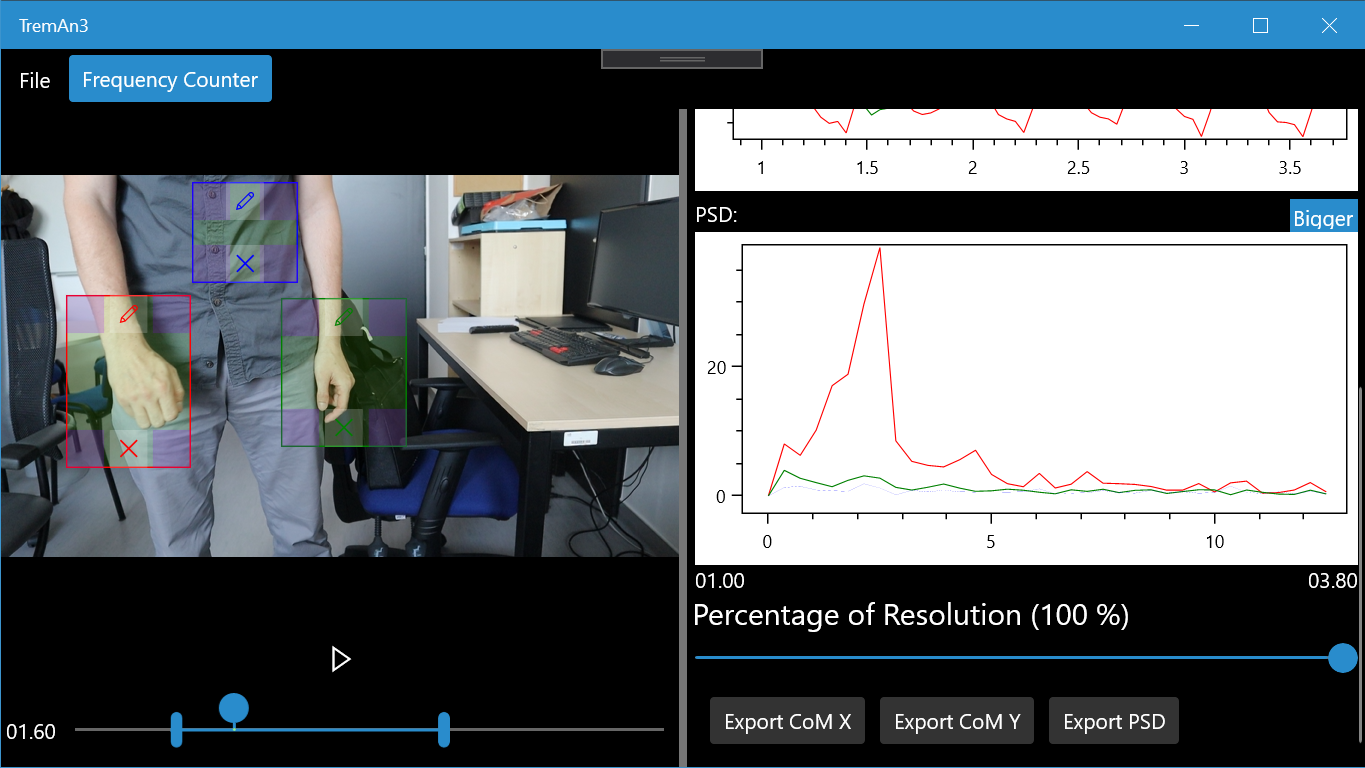
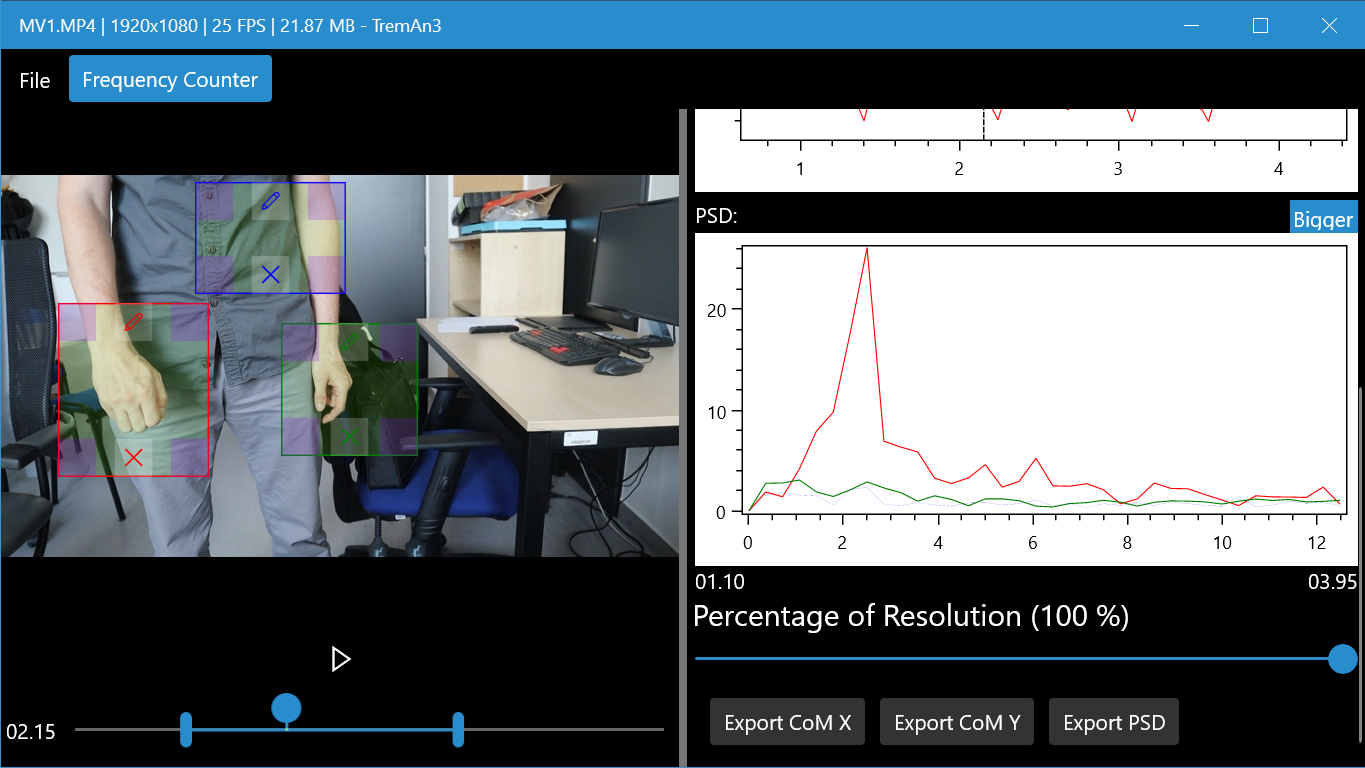
Whats new; store metadata edit

diff --git a/TremAn3/Views/WhatsNewDialog.xaml.cs b/TremAn3/Views/WhatsNewDialog.xaml.cs
@@ -16,19 +16,14 @@ namespace TremAn3.Views
         }
 
         string text = @"
-- Time range selector is within playback slider.
-  - More intuitive placement.
-- Secondary slider is added to proximity with CoM plots.
-  - Helps to understand relation between CoM plots and video.
-  - Only shows the selected time range (same as plots).
-- Vertical line in CoM plots to view correlation between video and CoM movement.
-  - Line follows video time position.
-  - Current video position is visibile in plots.
-- Mild flash on `Count freq` button as a warning of obsolete results.
-  - When plots are displayed, and ROI is moved it isn't in correlation anymore. So plot disappears and button starts flashing.
-- Buttons for making plots bigger.
-- Removes unnecessary buttons from playback area.
-- `No data` label for plots without data.
+- Computation could be canceled.
+  - The button isn't disabled, the text is changed to `Cancel`.
+  - It works with the `Esc` key.
+- Now you can open video by drag&drop.
+  - When an unsupported file type is dropped, a notification with info will pop up.
+  - When dropping multiple files, the first supported will be opened.
+- Info about video file in title of the app window.
+  - Name, resolution, frame rate, size in MB.
 ";
 
     }

diff --git a/README.md b/README.md
@@ -9,16 +9,18 @@ TremaAn app measures frequency of tremor (e.g. Parkinsonian tremor) from video.
 ## Features
 
 - Opens and plays videos
+  - Can be opened by drag&drop
 - Counts frequency from video using [CoM algorithm](https://github.com/tesar-tech/treman_algorithms) (Center of Motion)
 - Enables ROI selection
   - ROI size can be adjusted. (use arrow keys for small change, PgDown/Up for large)
-- Multiple ROIs for measuring different parts of video (e.g left and right hand)
-  - Multiple plots with option to hide them
+- Multiple ROIs for measuring different parts of the video (e.g left and right hand)
+  - Multiple plots with the option to hide them
 - Displays plot with power spectral density
 - Displays plot with CoM values
 - Export values to .csv format
 - Set time range for computation
 - Controlled by touch, keyboard, mouse or pen
+- Basic info about video in the title of window
 
 ## Availability
 
@@ -35,7 +37,18 @@ Alternatily it can be downloaded as msix package. Instructions [here](https://tr
 
 ## Changelog
 
-### 202004
+### 2020-06
+
+- Computation could be canceled.
+  - The button isn't disabled, the text is changed to `Cancel`.
+  - It works with the `Esc` key.
+- Now you can open video by drag&drop.
+  - When an unsupported file type is dropped, a notification with info will pop up.
+  - When dropping multiple files, the first supported will be opened.
+- Info about video file in title of the app window.
+  - Name, resolution, frame rate, size in MB.
+
+### 2020-04
 
 - Time range selector is within playback slider.
   - More intuitive placement.
@@ -51,7 +64,7 @@ Alternatily it can be downloaded as msix package. Instructions [here](https://tr
 - Removes unnecessary buttons from playback area.
 - `No data` label for plots without data.
 
-### 202003
+### 2020-03
 
 - Multiple ROIs in one measurement.
 - Multiple lines in plots (one for every ROI)
@@ -65,7 +78,7 @@ Alternatily it can be downloaded as msix package. Instructions [here](https://tr
   - It also respects the time range.
 - Lines on plots are thinner.
 
-### 202001
+### 2020-01
 
 - ROI size is adjustable by textboxes.
 - What's new dialog in the app
